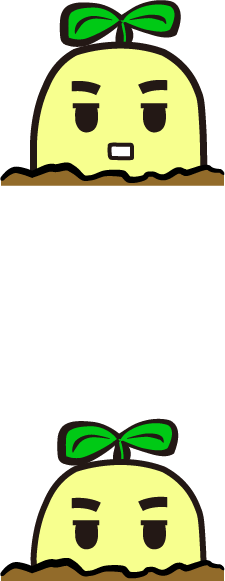
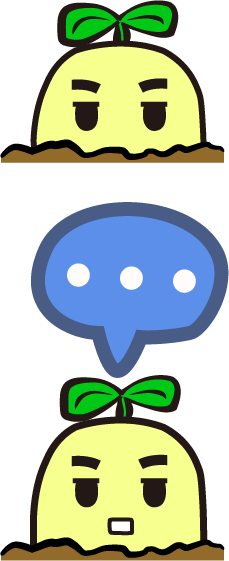
嵌入四顆小荳荳

diff --git a/Defined_css/layout_unauth.css b/Defined_css/layout_unauth.css
@@ -12,7 +12,7 @@
 #main_middle{
 	width: 100%;
 	background: url(../img/background_shadow.png) repeat-x;
-	text-align:center
+	text-align:center;
 }
 
 #main_bottom{
@@ -28,56 +28,81 @@
 }
 
 #main_slogan{
+	display: inline-block;
 	position: relative;
 	margin: 0 auto;
-	height: 116px;
-	top: -20px;
+	height: 320px;
+	width: 600px;
+	top: -160px;
 }
 
 #main_slogan *{
-	width: 116px;
-	height: 184px;
 	background-size: cover;
-	display:inline-block;
+	position: absolute;
+	bottom: 0;
 	margin: 0 7px;
 }
 
 .slogan1{
+	display:inline-block;
+	width:441px;
+	height:311px;
 	background: url(../img/slogan/slogan1.png)  no-repeat;
-	background-position: 0 -140px;
+	background-position: 0 223px;
+	z-index: 2;
+	left: 10px;
 }
 
 .slogan2{
+	display:inline-block;
+	width:300px;
+	height:318px;
 	background: url(../img/slogan/slogan2.png)  no-repeat;
-	background-position: 0 -144px;
+	background-position: 0 232px;
+	z-index: 4;
+	left: 162px;
 }
 
 .slogan3{
+	display:inline-block;
+	width:114px;
+	height:182px;
 	background: url(../img/slogan/slogan3.png)  no-repeat;
-	background-position: 0 -114px;
+	background-position: 0 102px;
+	z-index: 5;
+	right: 162px;
 }
 
 .slogan4{
+	display:inline-block;
+	width:364px;
+	height:295px;
 	background: url(../img/slogan/slogan4.png)  no-repeat;
-	background-position: 0 -183px;
+	background-position: 0 206px;
+	z-index: 3;
+	right: 10px;
 }
 
 .slogan1:hover{
-	background-position: 0 52px;
+	background-position: 0 -138px;
 }
 
 .slogan2:hover{
-	background-position: 0 60px;
+	background-position: 0 -109px;
 }
 
 .slogan3:hover{
-	background-position: 0 90px;
+	background-position: 0 -98px;
 }
 
 .slogan4:hover{
-	background-position: 0 15px;
+	background-position: 0 -138px;
 }
 
+#main_btn{
+	position: relative;
+	top: -180px;
+}
 
 #main_btn_login{
 	display: inline-block;

diff --git a/Defined_jQuery/jQuery_unauth.js b/Defined_jQuery/jQuery_unauth.js
@@ -102,8 +102,8 @@ var display_unauth = function(){
 	$('#main_logo').css('width', w_bg * 0.78);
 	$('#main_logo').css('top', h_bg * 0.1);
 	
-	$('#main_btn_login').css('top', h_bg * 0.13);
-	$('#main_btn_register').css('top', h_bg * 0.15);
+	//$('#main_btn_login').css('top', h_bg * 0.13);
+	//$('#main_btn_register').css('top', h_bg * 0.15);
 	
 	$('#dialog_login').css('top', 0.5 * (h_window - $('#dialog_login').height()));
 	$('#dialog_register').css('top', 0.5 * (h_window - $('#dialog_register').height()));

diff --git a/index.html b/index.html
@@ -93,8 +93,10 @@
 			<div class="slogan3"></div>
 			<div class="slogan4"></div>
 		</div>
-		<div id="main_btn_login" class="unauth"></div>
-		<div id="main_btn_register" class="unauth"></div>
+		<div id="main_btn">
+			<div id="main_btn_login" class="unauth"></div>
+			<div id="main_btn_register" class="unauth"></div>
+		</div>
 	</div>
 	<div id="main_bottom"></div>
 	<!-- Friend Dialog -->
